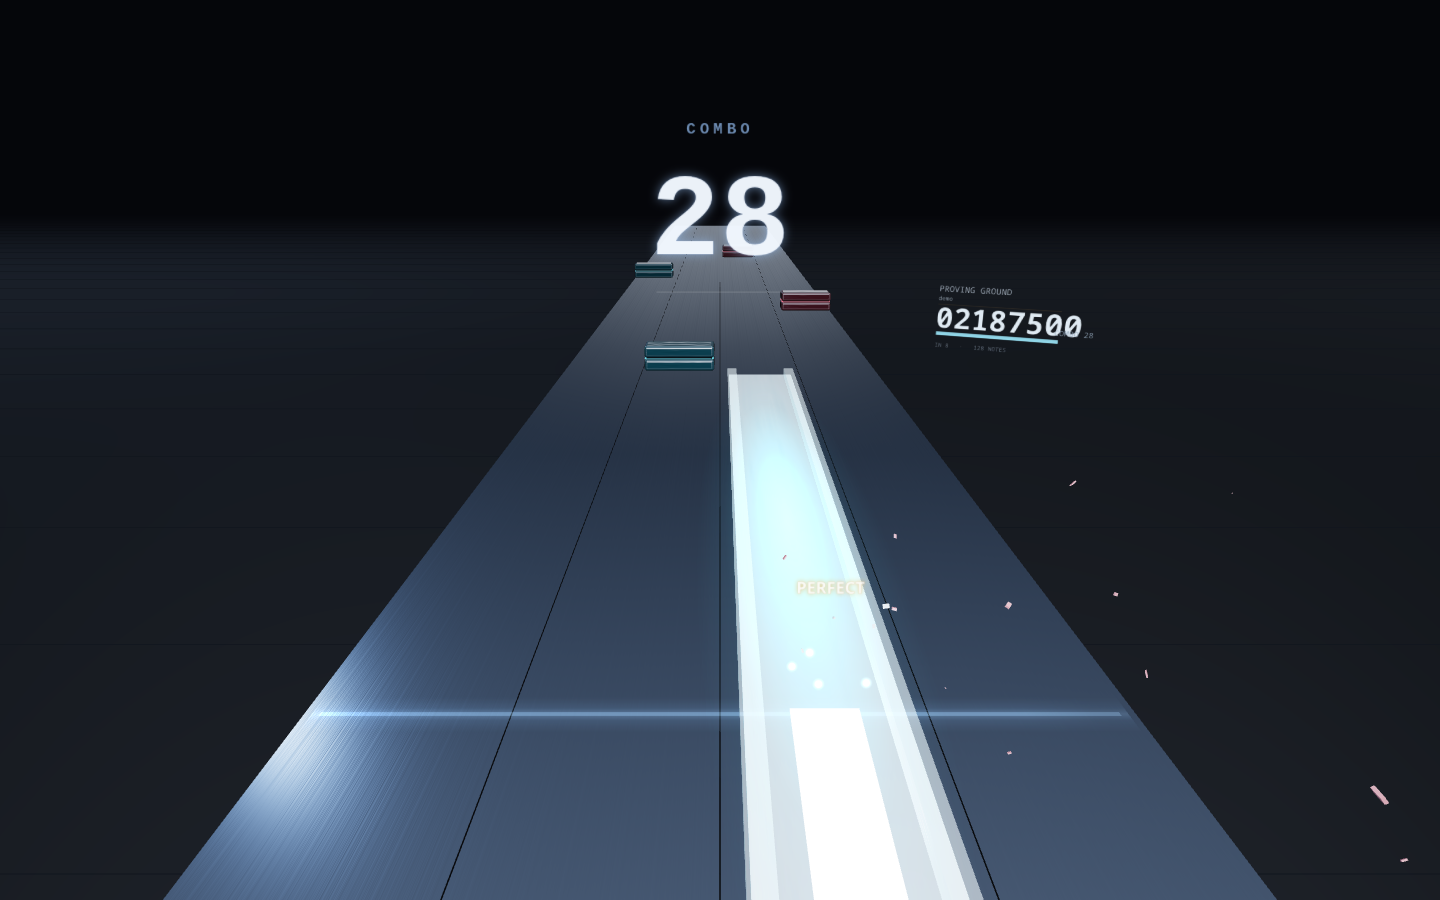
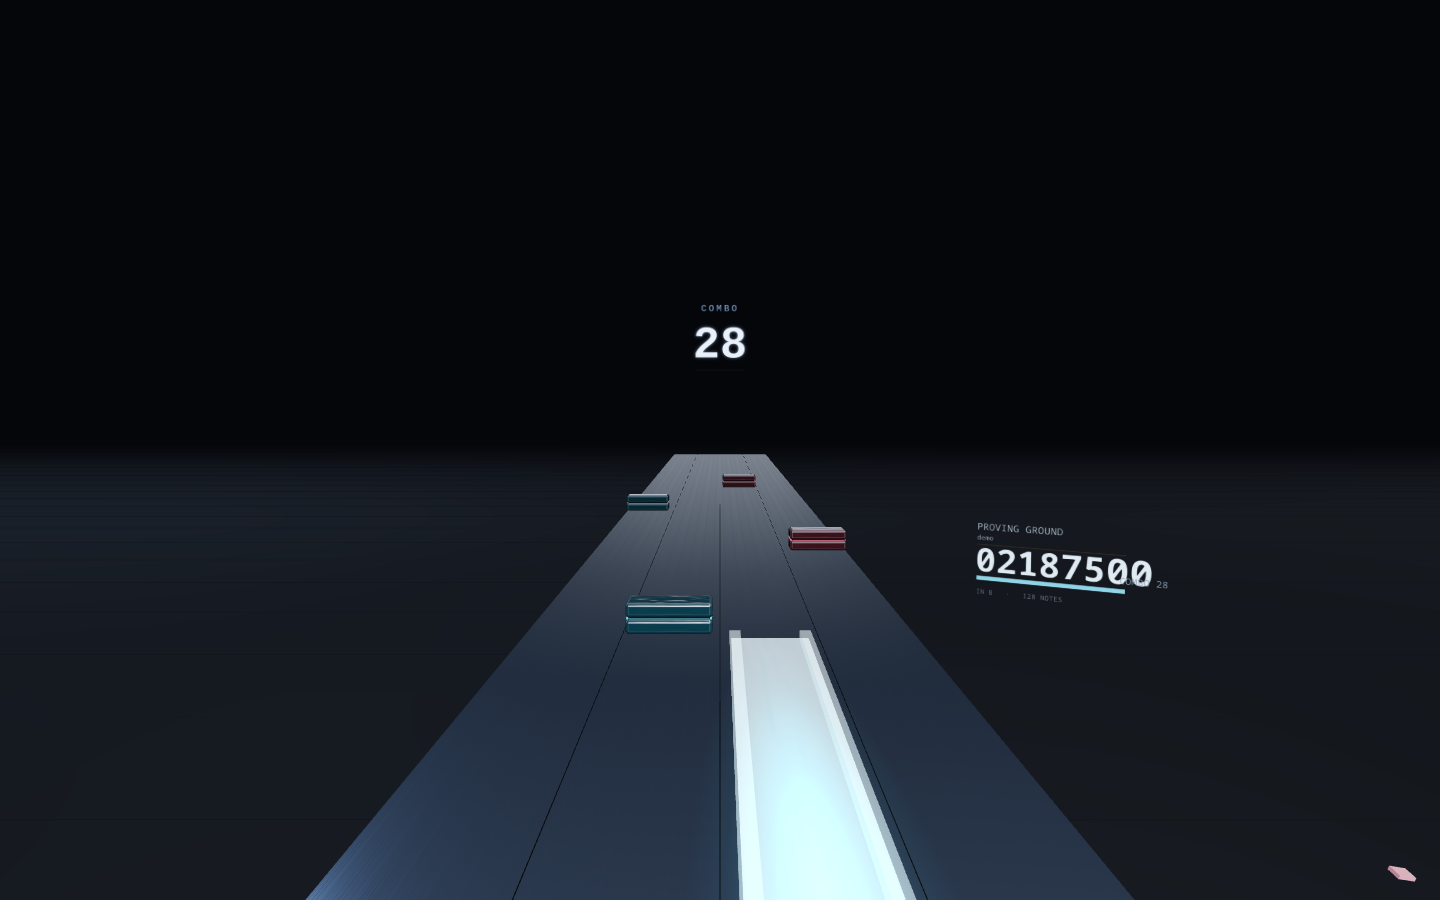
fix(combo): keep HUD out of the player's head

diff --git a/prototype/src/scene/comboHud.ts b/prototype/src/scene/comboHud.ts
@@ -23,17 +23,25 @@ export interface ComboHudOptions {
 
 export interface ComboHud {
   group: THREE.Group;
-  /** 每帧调用；`dt` 用于脉冲 / 淡出。 */
-  update(combo: number, dt: number): void;
+  /** 每帧调用；`dt` 用于脉冲 / 近身淡出，`eye` 是头显 / 相机位置。 */
+  update(combo: number, dt: number, eye: THREE.Vector3): void;
   /** 只在游玩中显示；暂停 / 结算 / 主页直接隐藏。 */
   setVisible(visible: boolean): void;
   dispose(): void;
 }
 
 /** 默认位置：台面中线、判定带更远处；世界固定，不跟头走。
- *  抬到 1.6m 是因为 1.5m 以下会压住近处飞来的 note；这个高度只和头顶附近的 arc 相撞。 */
-export const DEFAULT_COMBO_PLACEMENT = { x: 0, y: 1.6, z: -1.8 } as const;
-const DEFAULT_WIDTH = 0.26;
+ *  两个约束：
+ *  1) 高于玩家眼高（约 1.6m）与谱面最高点（0.95 + 0.81 = 1.76m）——正前方视线高度是看 note 的方向，
+ *     放在那里会被读成「贴在脸上」；
+ *  2) 离玩家至少 2.5m 以上，并在玩家贴近时淡出（见 NEAR_FADE）——打谱时人会前倾，
+ *     固定 HUD 不能因此怼到脸上。 */
+export const DEFAULT_COMBO_PLACEMENT = { x: 0, y: 1.8, z: -2.6 } as const;
+const DEFAULT_WIDTH = 0.5;
+
+/** 头离 HUD 多近就开始淡出 / 完全消失（米）。 */
+const NEAR_FADE_START = 1.9;
+const NEAR_FADE_END = 1.1;
 
 const TEXTURE_W = 640;
 const TEXTURE_H = 320;
@@ -99,15 +107,15 @@ export function createComboHud(options: ComboHudOptions = {}): ComboHud {
     ctx.textBaseline = 'middle';
 
     // 标签：拉开字距，读起来像仪表，不像标题。
-    ctx.font = `600 12px ${MONO}`;
+    ctx.font = `600 19px ${MONO}`;
     const spacing = ctx as CanvasRenderingContext2D & { letterSpacing?: string };
     try {
-      spacing.letterSpacing = '3px';
+      spacing.letterSpacing = '4px';
     } catch {
       // 老浏览器不支持 letterSpacing，保持默认。
     }
     ctx.fillStyle = LABEL_COLOR;
-    ctx.fillText('COMBO', LOGICAL_W / 2, 26, LOGICAL_W - 16);
+    ctx.fillText('COMBO', LOGICAL_W / 2, 24, LOGICAL_W - 16);
     try {
       spacing.letterSpacing = '0px';
     } catch {
@@ -116,12 +124,12 @@ export function createComboHud(options: ComboHudOptions = {}): ComboHud {
 
     // 数字：宽度不够时缩字号，不换行。
     const digits = String(combo);
-    const size = digits.length >= 4 ? 62 : digits.length === 3 ? 76 : 88;
+    const size = digits.length >= 4 ? 64 : digits.length === 3 ? 80 : 92;
     ctx.font = `700 ${size}px ${MONO}`;
     ctx.shadowColor = GLOW_COLOR;
-    ctx.shadowBlur = 16;
+    ctx.shadowBlur = 14;
     ctx.fillStyle = NUMBER_COLOR;
-    ctx.fillText(digits, LOGICAL_W / 2, 98, LOGICAL_W - 12);
+    ctx.fillText(digits, LOGICAL_W / 2, 100, LOGICAL_W - 12);
     ctx.shadowBlur = 0;
 
     // 一条极细的亮线收底，避免数字悬空。
@@ -143,7 +151,7 @@ export function createComboHud(options: ComboHudOptions = {}): ComboHud {
   return {
     group,
 
-    update(combo: number, dt: number): void {
+    update(combo: number, dt: number, eye: THREE.Vector3): void {
       const next = Math.max(0, Math.round(combo));
       if (next !== value) {
         if (next > value) pulse = 1;
@@ -155,13 +163,22 @@ export function createComboHud(options: ComboHudOptions = {}): ComboHud {
       pulse = Math.max(0, pulse - dt / PULSE_TIME);
       applyScale();
 
-      const target = active && shown > 0 ? 1 : 0;
+      // 玩家前倾 / 走近时淡出，避免 HUD 贴在脸上或被头穿过去。
+      const distance = eye.distanceTo(group.position);
+      const near =
+        distance >= NEAR_FADE_START
+          ? 1
+          : distance <= NEAR_FADE_END
+            ? 0
+            : (distance - NEAR_FADE_END) / (NEAR_FADE_START - NEAR_FADE_END);
+
+      const target = active && shown > 0 && near > 0 ? 1 : 0;
       const rate = target > alpha ? 22 : 14;
       alpha += (target - alpha) * Math.min(1, dt * rate);
       if (alpha < 0.004 && target === 0) alpha = 0;
 
-      material.opacity = alpha * 0.97;
-      sprite.visible = alpha > 0.004;
+      material.opacity = alpha * 0.97 * near;
+      sprite.visible = alpha > 0.004 && near > 0;
     },
 
     setVisible(visible: boolean): void {

diff --git a/prototype/src/main.ts b/prototype/src/main.ts
@@ -602,12 +602,21 @@ let displayTextures = createDisplayTextures({
 let display = buildDisplay(displayTextures, displayPlacement);
 scene.add(display.group);
 
-// Combo HUD：世界固定，浮在判定带中线正上方。位置可用 ?comboY / ?comboZ 在头显里微调。
+// Combo HUD：世界固定，浮在轨道上方的天空里。位置可用 ?comboX / ?comboY / ?comboZ 在头显里微调。
 const comboPlacement: { x: number; y: number; z: number } = { ...DEFAULT_COMBO_PLACEMENT };
-const comboYParam = Number(bootQuery.get('comboY'));
-if (Number.isFinite(comboYParam) && comboYParam > 0) comboPlacement.y = comboYParam;
-const comboZParam = Number(bootQuery.get('comboZ'));
-if (Number.isFinite(comboZParam)) comboPlacement.z = comboZParam;
+// 注意 `Number(null) === 0`：缺参数时必须返回 null，否则 combo 会被挪到 (0, 0, 0) —— 也就是玩家头里。
+const comboNum = (key: string): number | null => {
+  const raw = bootQuery.get(key);
+  if (raw === null || raw.trim() === '') return null;
+  const parsed = Number(raw);
+  return Number.isFinite(parsed) ? parsed : null;
+};
+const comboX = comboNum('comboX');
+if (comboX !== null) comboPlacement.x = comboX;
+const comboY = comboNum('comboY');
+if (comboY !== null && comboY > 0) comboPlacement.y = comboY;
+const comboZ = comboNum('comboZ');
+if (comboZ !== null) comboPlacement.z = comboZ;
 const comboHud = createComboHud(comboPlacement);
 scene.add(comboHud.group);
 
@@ -1299,7 +1308,7 @@ renderer.setAnimationLoop((frameTime: number) => {
   });
   // Combo HUD 只看流程，不看冻结：截图 / 冻结时它仍应该显示当前 combo。
   comboHud.setVisible(flow === 'playing');
-  comboHud.update(scoreView.combo, dt);
+  comboHud.update(scoreView.combo, dt, camera.position);
 
   const { perfect, good, miss, lastGrade, lastOffsetMs } = playfield.stats;
   const gradeRow = `${perfect} / ${good} / ${miss}`;

diff --git a/prototype/STATUS.md b/prototype/STATUS.md
@@ -46,7 +46,7 @@
 - **手腕短棒（2026-10-22）**：两只控制器各加一根 0.18m 短棒；默认与 hit 时全亮，接住 hold / arc 时淡到 0.28。WebXR 浏览器现在也会显示调试 GUI，`?debug=0` 可关。hit perfect 改为 early -100ms / late +80ms，good 为 early -140ms / late +160ms；引导网同步为不对称 full 窗口。
 - **手感验收（2026-10-22）**：用户反馈「手感基本合格」。计分仍为 PERFECT 100% / GOOD 60% / MISS 0；GOOD 血量 +0.25（PERFECT 的一半），combo 两者都 +1 但不计分。
 - **Songs 滚动（2026-10-22）**：列表从固定 4 行改为 4 行窗口 + 摇杆滚动（`hands.stickY`，axes[3] / axes[1]）；另有 ↑/↓ 箭头、滚动条、`n–m / total` 计数；换歌自动把选中项滚进视野。
-- **Combo HUD（2026-10-22）**：[`src/scene/comboHud.ts`](src/scene/comboHud.ts) 世界固定 Sprite，位置 `(0, 1.60, −1.80)`（1.5m 以下会压住近处 note）；大数字 + 小标签；0 隐藏、MISS 快速淡出、命中轻微脉冲；只在 combo 变化时重绘纹理；`?comboY` / `?comboZ` 可调。
+- **Combo HUD（2026-10-22）**：[`src/scene/comboHud.ts`](src/scene/comboHud.ts) 世界固定 Sprite，位置 `(0, 1.80, −2.60)`（高于眼高与最高 note；玩家靠近 1.9m 内淡出）；大数字 + 小标签；0 隐藏、MISS 快速淡出、命中轻微脉冲；只在 combo 变化时重绘纹理；`?comboY` / `?comboZ` 可调。
 - **暂停路径确认（2026-10-22）**：Quest 3 浏览器不暴露 menu 键，实际只有左手 Y 长按 400ms 可用；UI 文案与文档同步。
 - **暂缓**：无物量时立即结算，暂不按包内 `meta.duration` 等待；等 Infinity Heaven 谱面补充完成后再处理。
 

diff --git a/CHANGELOG.md b/CHANGELOG.md
@@ -5,7 +5,8 @@
 ### UI
 
 - Songs 列表超过 4 首可滚动：控制器摇杆上下推（`hands.stickY`，兼容 axes[3] / axes[1]），另有 ↑/↓ 箭头与滚动条；计数显示 `n–m / total`，换歌自动把选中项滚进视野。
-- 游玩中新增独立 Combo HUD（`src/scene/comboHud.ts`）：世界固定在判定带中线正上方，大数字 + 小标签；0 时隐藏、MISS 快速淡出、命中轻微脉冲；只在 combo 变化时重绘纹理；`?comboY` / `?comboZ` 可调。
+- 游玩中新增独立 Combo HUD（`src/scene/comboHud.ts`）：世界固定在轨道上方 `(0, 1.8, −2.6)`，大数字 + 小标签；0 时隐藏、MISS 快速淡出、命中轻微脉冲；只在 combo 变化时重绘纹理；`?comboX` / `?comboY` / `?comboZ` 可调。
+- 修复 Combo HUD 出现在玩家头里的问题：`?comboZ` 缺省时 `Number(null) === 0`，把位置读成了 `(0, 0, 0)`；缺参数现在按 `null` 处理，不覆盖默认位置。同时加「离头 1.9m 起淡出、1.1m 完全消失」，避免前倾时怼到脸上。
 - Quest 3 上 menu 键不暴露给 WebXR，暂停实际只走左手 Y 长按 400ms；面板 footer / 首页提示文案改为 `Y HOLD = PAUSE`，诊断提示同步。
 - 进入 VR 先到主页，不再自动开谱；主页显示当前谱面信息，`START` 后播放；
 - 游玩中移除常驻 `SETTINGS / PAUSE / RETRY` 控制条，面板点击只在主页 / 暂停 / 设置 / 结算时生效；

diff --git a/prototype/UI-BACKLOG.md b/prototype/UI-BACKLOG.md
@@ -67,7 +67,7 @@ Home → Songs → Playing → Paused → Settings
 | 计分 | 总分 `10,000,000`；PERFECT 100% / **GOOD 60%** / MISS 0；GOOD 血量 +0.25（PERFECT +0.5）；combo 不计分 |
 | arc 暗度 | 未接住 `0.42`，接上 / 未过线 `1.0`；状态切换立即生效 |
 | 短棒 | `0.18m`；sustain 透明度 `0.28`，关闭 depthWrite；判定点仍在控制器原点 |
-| Combo HUD | 世界固定 `(0, 1.60, −1.80)`；Sprite 宽 `0.26m`；`?comboY` / `?comboZ` 可调；0 时隐藏 |
+| Combo HUD | 世界固定 `(0, 1.80, −2.60)`；Sprite 宽 `0.50m`；离头 1.9m 起淡出、1.1m 消失；`?comboX` / `?comboY` / `?comboZ` 可调；0 时隐藏 |
 | Songs 滚动 | 4 行窗口（行高 `41px`）；摇杆满推约 `7 行/秒`；滚轮不参与 |
 
 `?debug=1` 可在生产页强制显示调试 GUI；注意 immersive VR 不会合成 DOM，lil-gui 只在 2D 页面 / 桌面镜像里可见。

diff --git a/README.md b/README.md
@@ -269,7 +269,7 @@ cd prototype && npm run dev
 | `?hitboxX=1.25` `?hitboxZ=1.2` | 调 hit 判定盒空间倍率（不改时间窗；生产页也可用） |
 | `?debug=0` `?debug=1` | 关闭 / 强制打开调试 GUI；检测到 immersive-vr 的浏览器默认打开 |
 | `?panelScale=1.05` `?panelDistance=0.65` `?panelY=1.45` | 调 VR 面板尺寸 / 距离 / 高度（生产也可用） |
-| `?comboY=1.6` `?comboZ=-1.8` | 调 Combo HUD 高度 / 前后位置（生产也可用） |
+| `?comboX=0` `?comboY=1.8` `?comboZ=-2.6` | 调 Combo HUD 左右 / 高度 / 前后位置（生产也可用） |
 | `?vr=1` | 假装在 VR 里（检查 `EXIT VR` 等只在头显出现的元素） |
 | `?menuButton=6` | 改 menu 键的 gamepad 索引（默认 6；读不到时用左手 Y 长按） |
 | `?clock=0` | 关掉音频时钟（无头截图用） |

diff --git a/prototype/FUTURE.md b/prototype/FUTURE.md
@@ -112,7 +112,7 @@
 
 已落地（[`src/scene/comboHud.ts`](src/scene/comboHud.ts)）：
 
-- 独立 Sprite，世界固定在判定带更远处的中线上方 `(0, 1.60, −1.80)`；不跟头，不做头锁 HUD；
+- 独立 Sprite，世界固定在轨道上方 `(0, 1.80, −2.60)`；不跟头，不做头锁 HUD；玩家贴近时淡出；
 - 大数字（mono）+ 小 `COMBO` 标签；数字变化时轻微脉冲；0 时隐藏，MISS 快速淡出；
 - 不参与计分；浮空显示里的 `COMBO n` 保留为信息板的一部分；
 - CanvasTexture 只在 combo 变化时重绘；
